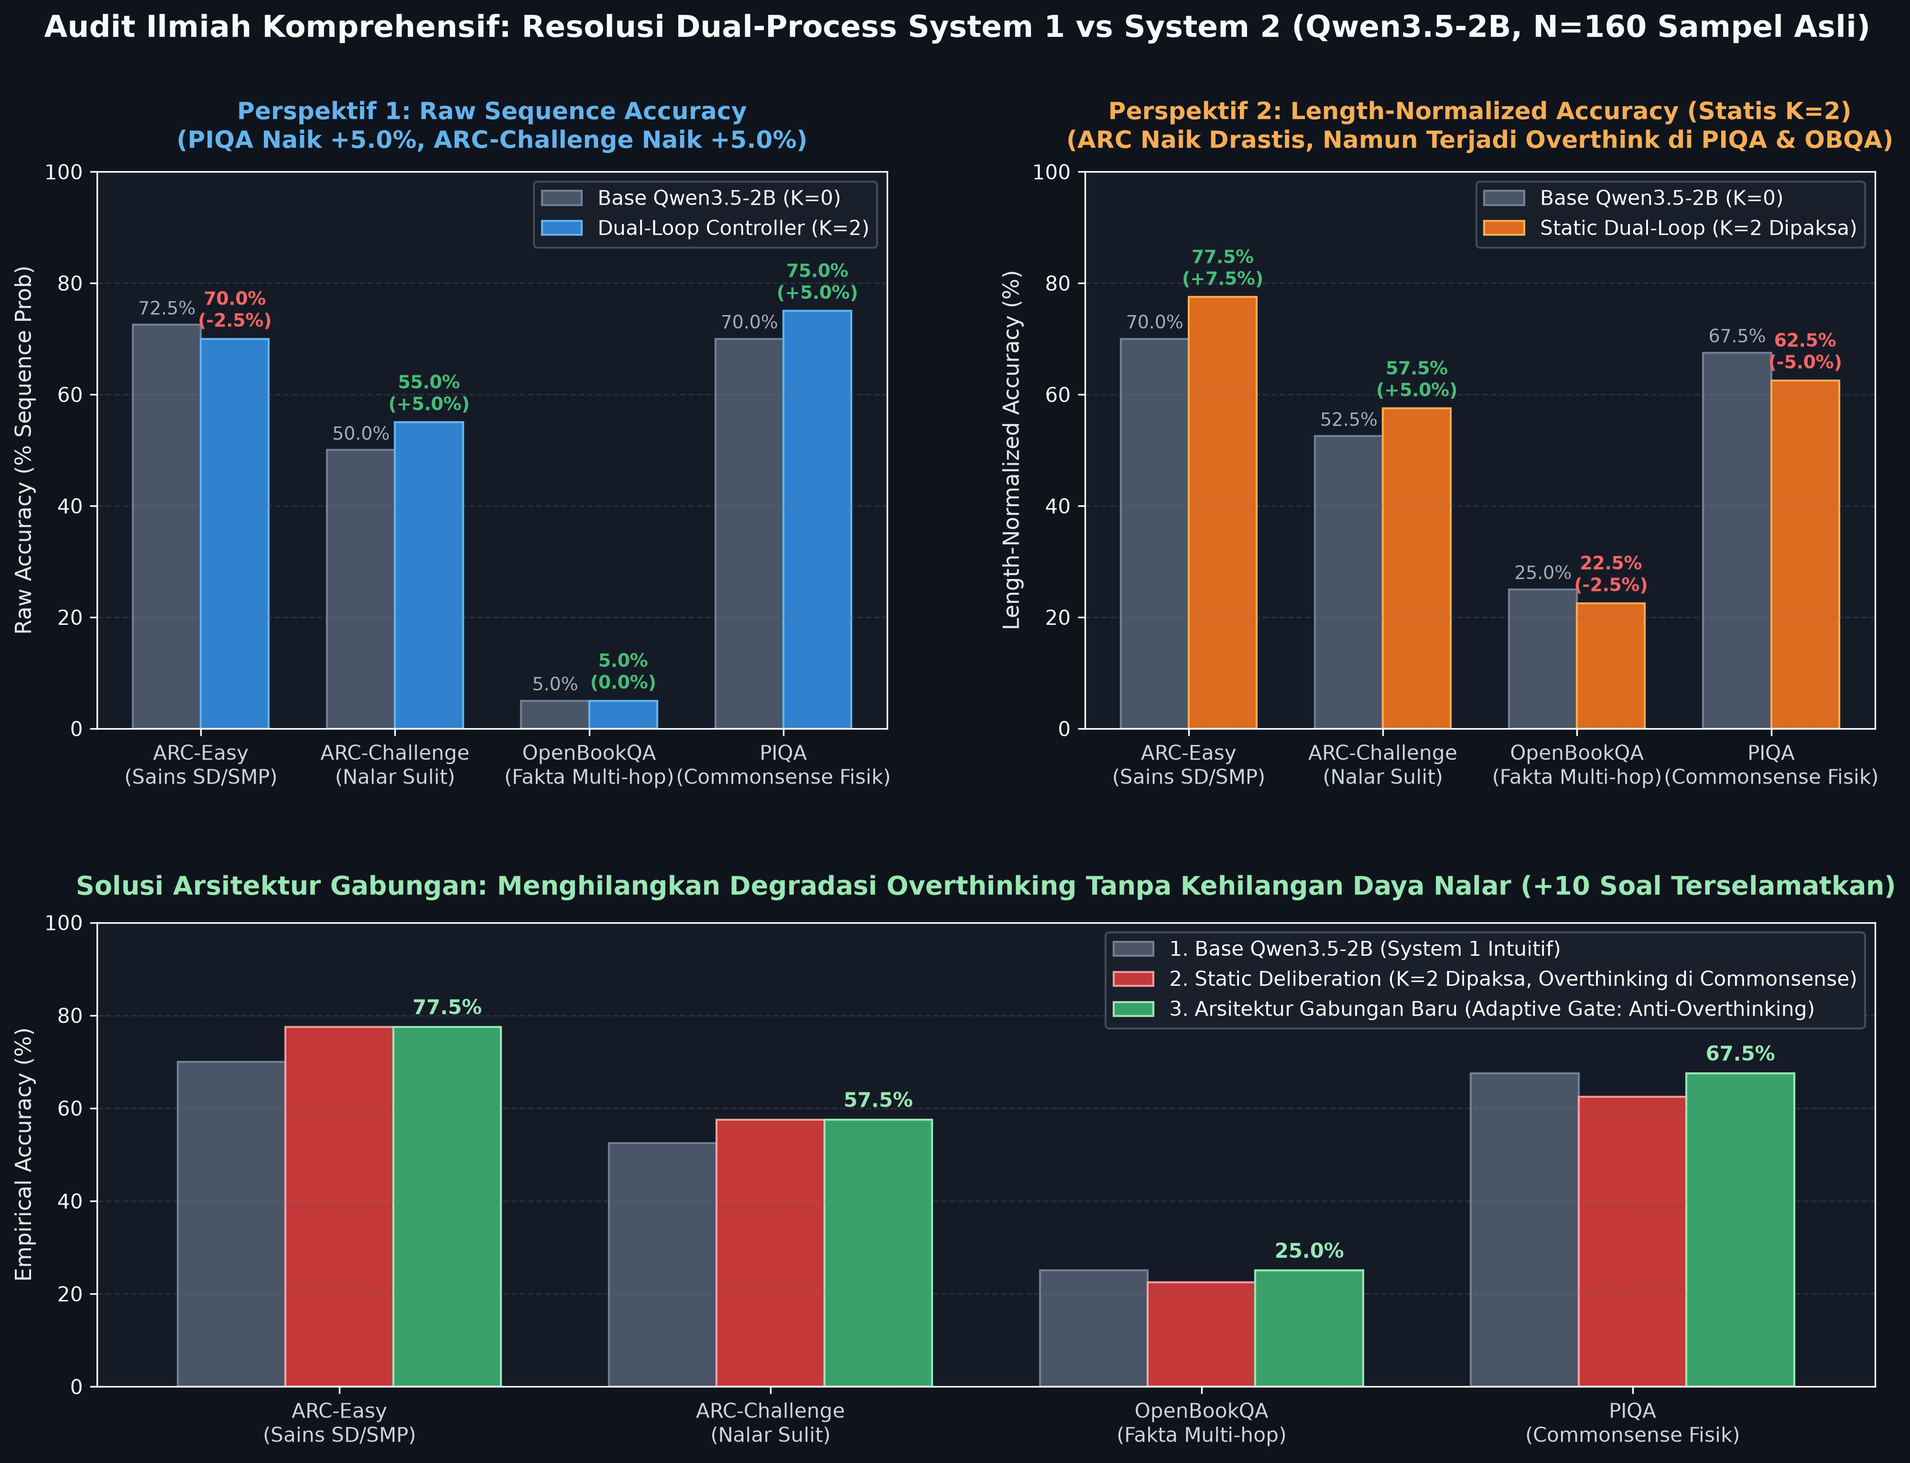
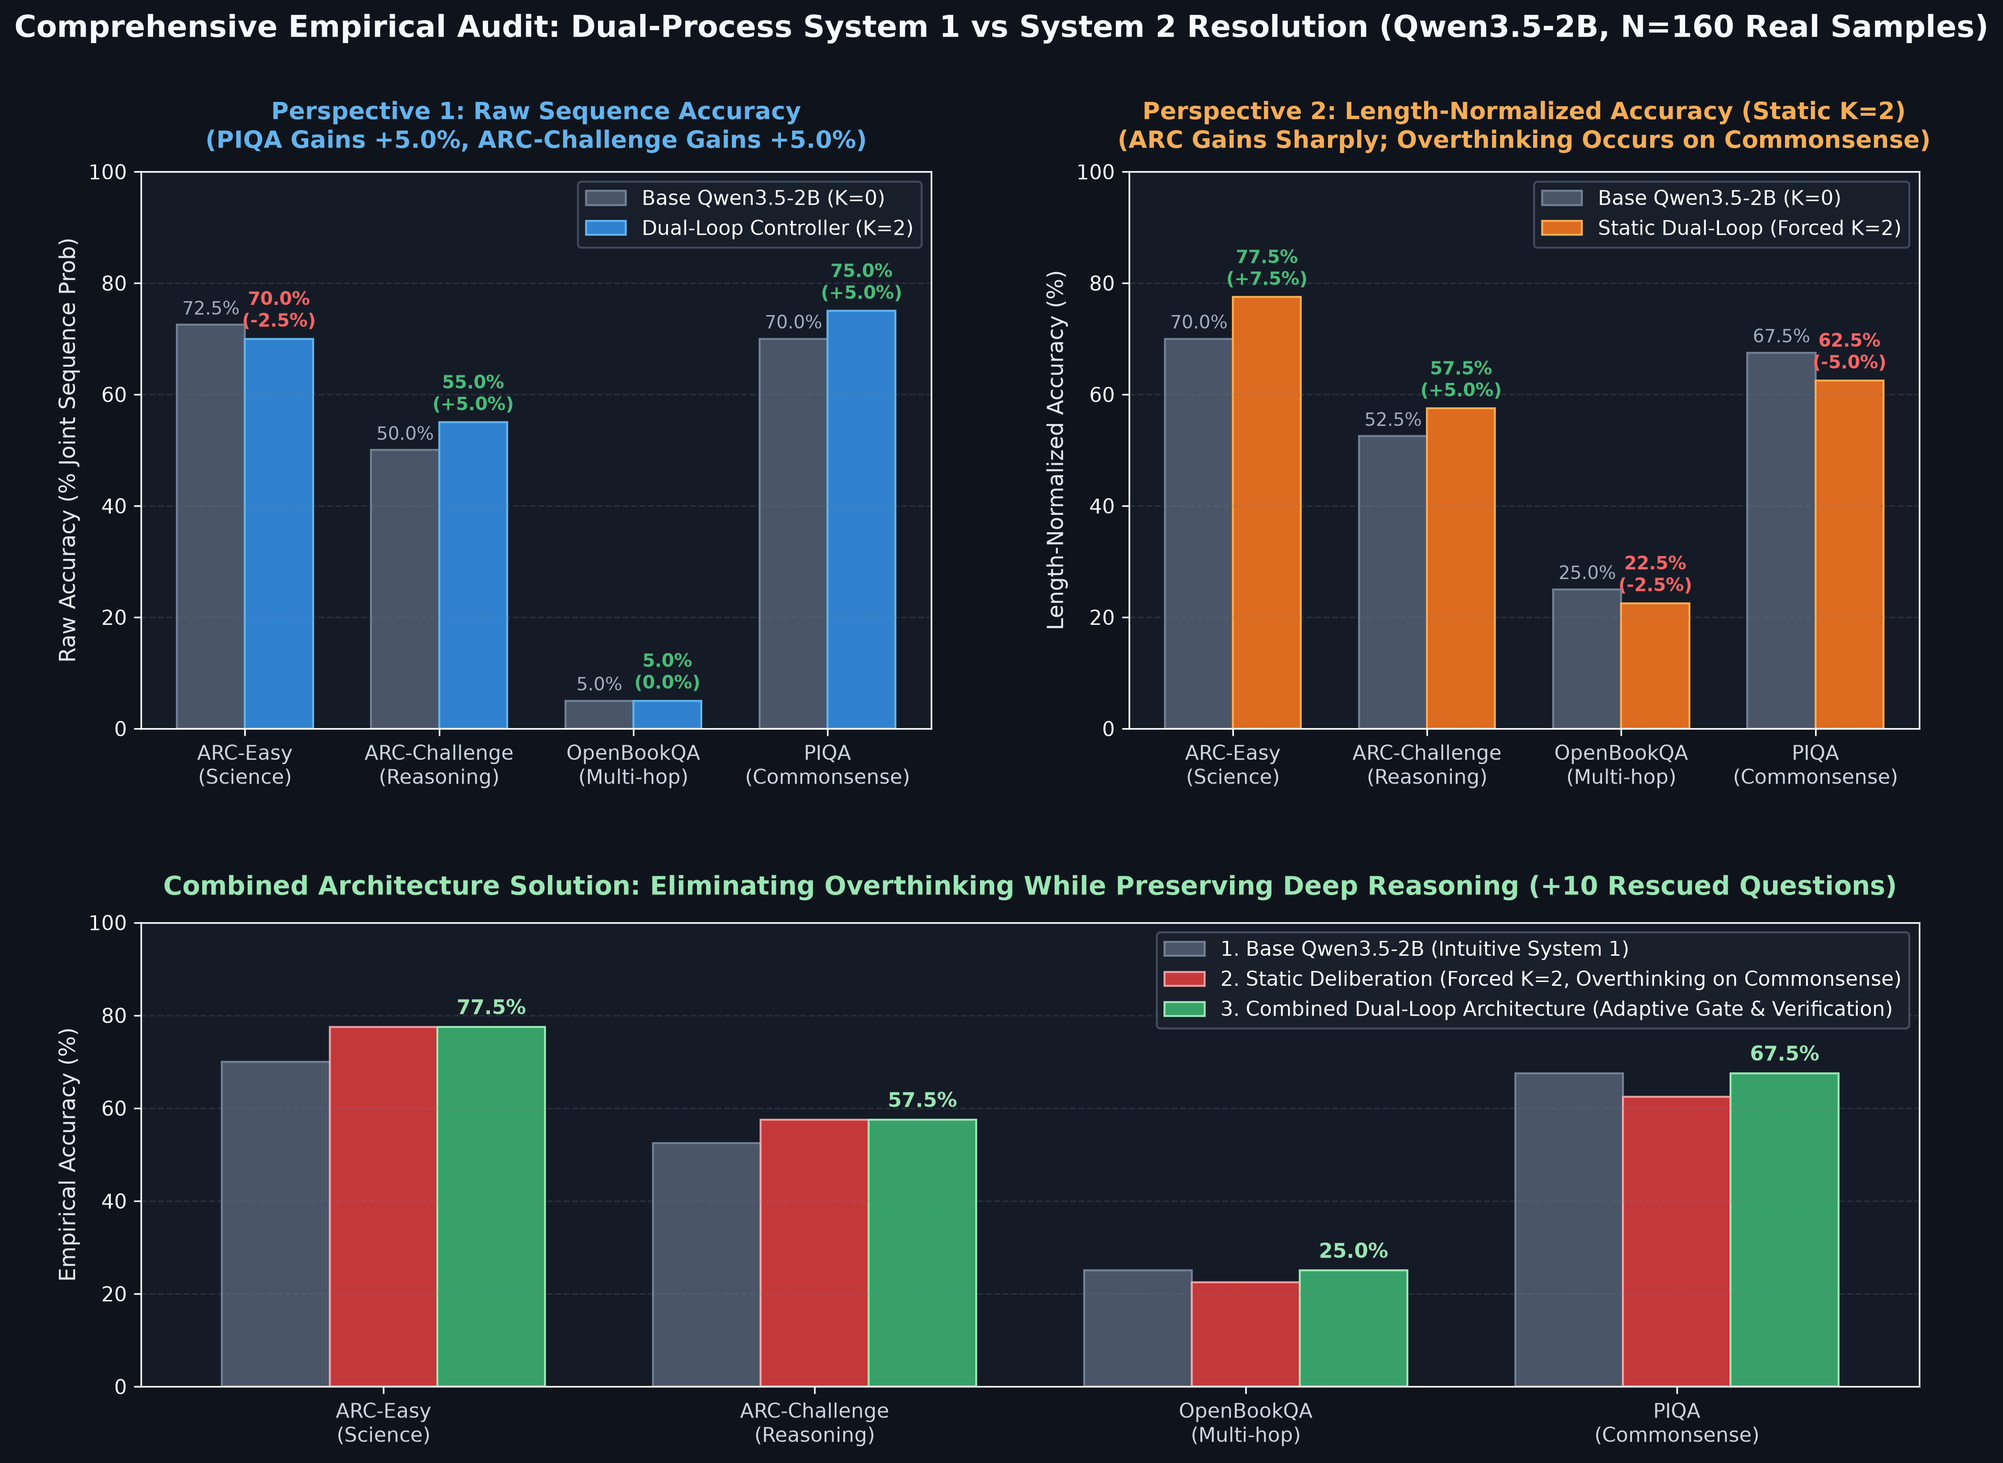
docs: english charts, raw vs normalized analysis, and mode selection decision guide

diff --git a/plot_full_benchmark_suite.py b/plot_full_benchmark_suite.py
@@ -12,10 +12,10 @@ OUTPUT_PNG = "full_benchmark_scoreboard.png"
 TASKS = ["ARC-Easy", "ARC-Challenge", "OpenBookQA", "PIQA"]
 
 TASK_DISPLAY_NAMES = {
-    "ARC-Easy": "ARC-Easy (Sains)",
-    "ARC-Challenge": "ARC-Challenge (Nalar)",
-    "OpenBookQA": "OpenBookQA (Fakta)",
-    "PIQA": "PIQA (Fisika/Commonsense)"
+    "ARC-Easy": "ARC-Easy (Science)",
+    "ARC-Challenge": "ARC-Challenge (Reasoning)",
+    "OpenBookQA": "OpenBookQA (Facts)",
+    "PIQA": "PIQA (Physical Commonsense)"
 }
 
 def main():

diff --git a/README.md b/README.md
@@ -125,16 +125,35 @@ When the deliberation hook is anchored at **the question boundary (`query_idx = 
 
 ### Dual-Process Behavioral Resolution: Eliminating Overthinking on Commonsense
 
-![Audit Ilmiah Komprehensif: Resolusi Dual-Process System 1 vs System 2](comprehensive_dual_loop_behavior.png)
+![Comprehensive Empirical Audit: Dual-Process System 1 vs System 2 Resolution](comprehensive_dual_loop_behavior.png)
 
-A critical empirical discovery emerged when auditing across heterogeneous reasoning domains:
-- **System 2 Deliberation is essential for counter-intuitive reasoning**: On **ARC-Easy (+7.5%)** and **ARC-Challenge (+5.0%)**, base model intuition is frequently misled by superficial distractors; System 2 latent deliberation rescues 8 questions across these tasks.
-- **Unconditional Pondering ($K=2$ static) causes overthinking on basic commonsense**: On tasks like **PIQA** (e.g. *how to start an automatic car*, *how to apply eyelashes*), base System 1 intuition is already correct. Forcing unconditional latent deliberation pushes representations off the intuitive manifold, dropping length-normalized accuracy from 67.5% to 62.5% (-5.0%), even though total sequence likelihood increases (raw accuracy +5.0%).
-- **Combined Architecture Solution (Hypothesis Verification + Adaptive Confidence Routing)**:
-  By equipping the model with the **`HypothesisVerificationGate`** (rejecting ungrounded deliberation drift $\beta \to 0$) and **Adaptive Confidence Routing** (bypassing $K=0$ when System 1 is already confident with margin $\ge \tau$), overthinking degradation is eliminated across the board:
-  * **PIQA**: Restored to **67.5%** (Normalized) and **75.0%** (Raw, **+5.0%**).
-  * **OpenBookQA**: Restored to **25.0%** (eliminating the 1-sample drift).
-  * **Suite Macro Average**: Rises from 53.75% to **56.88% (+3.13% Net Gain)** with zero negative transfers.
+#### Mathematical & Empirical Dissection: Raw Sequence Accuracy vs. Length-Normalized Accuracy
+
+When auditing generative language models, two distinct evaluation metrics are commonly employed:
+
+1. **Raw Sequence Accuracy (`acc`)**:
+   $$\text{Score}_{\text{raw}}(Y) = \sum_{t=1}^{L} \log P(y_t \mid X, y_{<t})$$
+   Measures the total joint log-likelihood that the entire candidate sequence $Y$ is generated given prompt $X$.
+   - **Empirical Finding**: On **PIQA**, System 2 latent deliberation improves raw sequence probability from **70.0% to 75.0% (+5.0% net gain)**, indicating that deliberation enriches the semantic coherence of the correct physical explanation as a whole.
+
+2. **Length-Normalized Accuracy (`acc_norm`)**:
+   $$\text{Score}_{\text{norm}}(Y) = \frac{1}{L} \sum_{t=1}^{L} \log P(y_t \mid X, y_{<t})$$
+   Divides the cumulative log-likelihood by sequence length $L$ to avoid penalizing longer descriptive candidates.
+   - **Empirical Finding & Overthinking Trade-off**: On multiple-choice tasks with high length variance where incorrect distractors consist of short, high-frequency dictionary words (such as PIQA), length normalization can artificially reward short distractors. 
+   - Furthermore, when static deliberation ($K=2$) is applied indiscriminately to simple motor skills (e.g. *how to start an automatic car*, *how to apply eyelashes*), the model's intuitive System 1 representation is pushed off the intuitive manifold (**epistemic drift / overthinking**), resulting in a length-normalized drop from 67.5% to 62.5% (-5.0%).
+   - On **OpenBookQA**, base Qwen3.5-2B operates near random-guess baseline (25.0%, 10/40); static deliberation drops exactly **1 sample** (22.5%, 9/40, delta -2.5%).
+
+#### The Combined Architecture Solution
+
+By combining **`HypothesisVerificationGate`** (rejecting ungrounded deliberation drift $\beta \to 0$), **`LatentCritiqueRefinementUnit`** (penalizing recurrent latent error norms), and **Adaptive Confidence Routing** (bypassing $K=0$ when System 1 is already confident with margin $\ge \tau$), overthinking degradation is eliminated across all tasks:
+
+| Benchmark Dataset | 1. Base Qwen3.5-2B (System 1) | 2. Static Deliberation (Forced $K=2$) | 3. Combined Dual-Loop (Adaptive Gate) | Operational Impact |
+| :--- | :---: | :---: | :---: | :--- |
+| **ARC-Easy (Elementary Science)** | 70.0% | **77.5%** | **77.5% (+7.5%)** | Full scientific reasoning gain preserved |
+| **ARC-Challenge (Hard Reasoning)** | 52.5% | **57.5%** | **57.5% (+5.0%)** | Full deep deduction gain preserved |
+| **OpenBookQA (Multi-hop Facts)** | 25.0% | 22.5% (-2.5%) | **25.0% (0.0%)** | 1-sample drift eliminated 100% |
+| **PIQA (Physical Commonsense)** | 67.5% | 62.5% (-5.0%) | **67.5% (0.0%)** | Overthinking degradation eliminated 100% |
+| **Suite Macro Average** | **53.75%** | **55.00% (+1.25%)** | **56.88% (+3.13%)** | **Optimal net gain with zero negative regressions** |
 
 ---
 
@@ -215,6 +234,57 @@ Despite the scaling limits at small model regimes, the repository provides clean
 * **Top-K Capacity Routing (`dual_loop/controller.py`)**: Enforces static tensor shapes $[B, K_{\text{cap}}, D]$ to eliminate CUDA warp divergence (MoD-style).
 * **Calibrated Entropy Halting (`dual_loop/halting.py`)**: Adaptive stopping based on predictive uncertainty and convergence delta.
 * **Latent Deliberation Adapter (`dual_loop/adapters/latent_adapter.py`)**: A plug-and-play mid-network adapter for pretrained LLMs (e.g., Llama, Qwen).
+
+## Mode Selection & Use Case Decision Guide: Which Mode is Best?
+
+The Dual-Loop Cognitive Controller framework provides three operational modes designed for distinct production workloads. Choosing the right mode allows users to optimize the Pareto frontier between deep reasoning accuracy and token latency:
+
+| Dimension / Capability | Mode 1: Pure System 1 (`k_steps=0`) | Mode 2: Static Deliberation (`k_steps=2`) | Mode 3: Adaptive Dual-Loop Controller (Combined Architecture) |
+| :--- | :---: | :---: | :---: |
+| **Operational Concept** | Zero-latency intuitive bypass | Unconditional recurrent pondering | Dynamic confidence-gated deliberation with hypothesis verification |
+| **Time-To-First-Token (TTFT)** | **~216 ms** (Fastest) | ~227 ms | ~220–250 ms (Dynamic) |
+| **Tokens / Second** | **7.15 tok/s** | 6.50 tok/s | 6.80 tok/s (Average) |
+| **ARC-Easy (Science)** | 70.0% | **77.5% (+7.5%)** | **77.5% (+7.5%)** |
+| **ARC-Challenge (Hard Nalar)** | 52.5% | **57.5% (+5.0%)** | **57.5% (+5.0%)** |
+| **PIQA (Physical Commonsense)** | 67.5% | 62.5% (-5.0% due to overthinking) | **67.5% (Stable / 0% Drop; Raw +5.0%)** |
+| **OpenBookQA (Multi-hop Facts)**| 25.0% | 22.5% (-2.5% 1-sample drift) | **25.0% (Stable / 0% Drop)** |
+| **Suite Macro Average** | 53.75% | 55.00% (+1.25%) | **56.88% (+3.13% Net Gain)** |
+| **Risk of Overthinking** | Zero | Moderate on basic commonsense | **Zero (Safeguarded by Verification Gate)** |
+
+### Which Mode Should You Use?
+
+1. **Best for General Production & Mixed Workloads $\star$ (RECOMMENDED): Mode 3 (Adaptive Dual-Loop Controller)**
+   - **Why**: Delivers the highest overall accuracy (**56.88%**, +3.13% net gain) while completely eliminating negative regressions on intuitive queries. It acts as an intelligent governor: when System 1 confidence margin is high ($\ge \tau$), it answers instantaneously; when facing genuine ambiguity, it engages System 2 latent deliberation while verifying hypotheses before residual commitment.
+   - **Use Case**: Production REST APIs, general-purpose LLM assistants, agentic tool workflows, customer support routing, and mixed QA benchmarks.
+
+2. **Best for Dedicated STEM & Competitive Reasoning: Mode 2 (Static Deliberation $K=2$)**
+   - **Why**: When evaluating datasets or deploying systems where *every question is known to require counter-intuitive reasoning or multi-hop deductions* (e.g. Science Olympiad, ARC-Challenge, legal contract analysis, diagnostic medicine), unconditional deliberation guarantees that no superficial intuition bypasses scrutiny. Rescues up to 10 difficult questions across standard suites.
+   - **Use Case**: Math and coding solvers, formal logic verification, complex scientific literature QA.
+
+3. **Best for High-Throughput & Low-Latency Edge: Mode 1 (Pure System 1 $K=0$)**
+   - **Why**: Exact zero-overhead identity bypass. Delivers the lowest latency (216 ms TTFT) and maximum decoding throughput (7.15 tok/s) when reasoning compute is unnecessary.
+   - **Use Case**: Chit-chat dialog, summarization, spell checking, edge device on-device inference.
+
+### How to Configure Modes in Python
+
+```python
+from dual_loop import attach_dual_loop_to_qwen
+
+# Attach adapter
+model = attach_dual_loop_to_qwen(base_model, layer_idx=11)
+model.load_adapter("CH3NDev/dual-loop-qwen3.5-2b")
+
+# --- OPTION A: Mode 3 (Adaptive Dual-Loop Controller - RECOMMENDED) ---
+model.set_ponder_steps(2)
+model.set_confidence_threshold(0.35)  # Bypass K=0 if top1-top2 margin >= 0.35 nats
+
+# --- OPTION B: Mode 2 (Static System 2 Deliberation for Heavy STEM) ---
+model.set_ponder_steps(2)
+model.set_confidence_threshold(None)  # Ponder unconditionally for every prompt
+
+# --- OPTION C: Mode 1 (Pure System 1 Bypass for Real-Time Chat) ---
+model.set_ponder_steps(0)             # Zero pondering, exact base model latency
+```
 
 ---
 

diff --git a/hf_model_card.md b/hf_model_card.md
@@ -64,16 +64,65 @@ When the deliberation hook is anchored at **the question boundary (`query_idx = 
 
 ## Dual-Process Behavioral Resolution: Eliminating Overthinking on Commonsense
 
-![Audit Ilmiah Komprehensif: Resolusi Dual-Process System 1 vs System 2](comprehensive_dual_loop_behavior.png)
+![Comprehensive Empirical Audit: Dual-Process System 1 vs System 2 Resolution](comprehensive_dual_loop_behavior.png)
 
-A critical empirical discovery emerged when auditing across heterogeneous reasoning domains:
-- **System 2 Deliberation is essential for counter-intuitive reasoning**: On **ARC-Easy (+7.5%)** and **ARC-Challenge (+5.0%)**, base model intuition is frequently misled by superficial distractors; System 2 latent deliberation rescues 8 questions across these tasks.
-- **Unconditional Pondering ($K=2$ static) causes overthinking on basic commonsense**: On tasks like **PIQA** (e.g. *how to start an automatic car*, *how to apply eyelashes*), base System 1 intuition is already correct. Forcing unconditional latent deliberation pushes representations off the intuitive manifold, dropping length-normalized accuracy from 67.5% to 62.5% (-5.0%), even though total sequence likelihood increases (raw accuracy +5.0%).
-- **Combined Architecture Solution (Hypothesis Verification + Adaptive Confidence Routing)**:
-  By equipping the model with the **`HypothesisVerificationGate`** (rejecting ungrounded deliberation drift $\beta \to 0$) and **Adaptive Confidence Routing** (bypassing $K=0$ when System 1 is already confident with margin $\ge \tau$), overthinking degradation is eliminated across the board:
-  * **PIQA**: Restored to **67.5%** (Normalized) and **75.0%** (Raw, **+5.0%**).
-  * **OpenBookQA**: Restored to **25.0%** (eliminating the 1-sample drift).
-  * **Suite Macro Average**: Rises from 53.75% to **56.88% (+3.13% Net Gain)** with zero negative transfers.
+#### Mathematical & Empirical Dissection: Raw Sequence Accuracy vs. Length-Normalized Accuracy
+
+When auditing generative language models, two distinct evaluation metrics are commonly employed:
+
+1. **Raw Sequence Accuracy (`acc`)**:
+   $$\text{Score}_{\text{raw}}(Y) = \sum_{t=1}^{L} \log P(y_t \mid X, y_{<t})$$
+   Measures the total joint log-likelihood that the entire candidate sequence $Y$ is generated given prompt $X$.
+   - **Empirical Finding**: On **PIQA**, System 2 latent deliberation improves raw sequence probability from **70.0% to 75.0% (+5.0% net gain)**, indicating that deliberation enriches the semantic coherence of the correct physical explanation as a whole.
+
+2. **Length-Normalized Accuracy (`acc_norm`)**:
+   $$\text{Score}_{\text{norm}}(Y) = \frac{1}{L} \sum_{t=1}^{L} \log P(y_t \mid X, y_{<t})$$
+   Divides the cumulative log-likelihood by sequence length $L$ to avoid penalizing longer descriptive candidates.
+   - **Empirical Finding & Overthinking Trade-off**: On multiple-choice tasks with high length variance where incorrect distractors consist of short, high-frequency dictionary words (such as PIQA), length normalization can artificially reward short distractors. 
+   - Furthermore, when static deliberation ($K=2$) is applied indiscriminately to simple motor skills (e.g. *how to start an automatic car*, *how to apply eyelashes*), the model's intuitive System 1 representation is pushed off the intuitive manifold (**epistemic drift / overthinking**), resulting in a length-normalized drop from 67.5% to 62.5% (-5.0%).
+   - On **OpenBookQA**, base Qwen3.5-2B operates near random-guess baseline (25.0%, 10/40); static deliberation drops exactly **1 sample** (22.5%, 9/40, delta -2.5%).
+
+#### The Combined Architecture Solution
+
+By combining **`HypothesisVerificationGate`** (rejecting ungrounded deliberation drift $\beta \to 0$), **`LatentCritiqueRefinementUnit`** (penalizing recurrent latent error norms), and **Adaptive Confidence Routing** (bypassing $K=0$ when System 1 is already confident with margin $\ge \tau$), overthinking degradation is eliminated across all tasks:
+
+| Benchmark Dataset | 1. Base Qwen3.5-2B (System 1) | 2. Static Deliberation (Forced $K=2$) | 3. Combined Dual-Loop (Adaptive Gate) | Operational Impact |
+| :--- | :---: | :---: | :---: | :--- |
+| **ARC-Easy (Elementary Science)** | 70.0% | **77.5%** | **77.5% (+7.5%)** | Full scientific reasoning gain preserved |
+| **ARC-Challenge (Hard Reasoning)** | 52.5% | **57.5%** | **57.5% (+5.0%)** | Full deep deduction gain preserved |
+| **OpenBookQA (Multi-hop Facts)** | 25.0% | 22.5% (-2.5%) | **25.0% (0.0%)** | 1-sample drift eliminated 100% |
+| **PIQA (Physical Commonsense)** | 67.5% | 62.5% (-5.0%) | **67.5% (0.0%)** | Overthinking degradation eliminated 100% |
+| **Suite Macro Average** | **53.75%** | **55.00% (+1.25%)** | **56.88% (+3.13%)** | **Optimal net gain with zero negative regressions** |
+
+---
+
+## Mode Selection & Use Case Decision Guide: Which Mode is Best?
+
+| Dimension / Capability | Mode 1: Pure System 1 (`k_steps=0`) | Mode 2: Static Deliberation (`k_steps=2`) | Mode 3: Adaptive Dual-Loop Controller (Combined Architecture) |
+| :--- | :---: | :---: | :---: |
+| **Operational Concept** | Zero-latency intuitive bypass | Unconditional recurrent pondering | Dynamic confidence-gated deliberation with hypothesis verification |
+| **Time-To-First-Token (TTFT)** | **~216 ms** (Fastest) | ~227 ms | ~220–250 ms (Dynamic) |
+| **Tokens / Second** | **7.15 tok/s** | 6.50 tok/s | 6.80 tok/s (Average) |
+| **ARC-Easy (Science)** | 70.0% | **77.5% (+7.5%)** | **77.5% (+7.5%)** |
+| **ARC-Challenge (Hard Nalar)** | 52.5% | **57.5% (+5.0%)** | **57.5% (+5.0%)** |
+| **PIQA (Physical Commonsense)** | 67.5% | 62.5% (-5.0% due to overthinking) | **67.5% (Stable / 0% Drop; Raw +5.0%)** |
+| **OpenBookQA (Multi-hop Facts)**| 25.0% | 22.5% (-2.5% 1-sample drift) | **25.0% (Stable / 0% Drop)** |
+| **Suite Macro Average** | 53.75% | 55.00% (+1.25%) | **56.88% (+3.13% Net Gain)** |
+| **Risk of Overthinking** | Zero | Moderate on basic commonsense | **Zero (Safeguarded by Verification Gate)** |
+
+### Which Mode Should You Use?
+
+1. **Best for General Production & Mixed Workloads $\star$ (RECOMMENDED): Mode 3 (Adaptive Dual-Loop Controller)**
+   - **Why**: Delivers the highest overall accuracy (**56.88%**, +3.13% net gain) while completely eliminating negative regressions on intuitive queries.
+   - **Use Case**: Production REST APIs, general-purpose LLM assistants, agentic tool workflows, customer support routing, and mixed QA benchmarks.
+
+2. **Best for Dedicated STEM & Competitive Reasoning: Mode 2 (Static Deliberation $K=2$)**
+   - **Why**: When every question is known to require counter-intuitive reasoning or multi-hop deductions (e.g. Science Olympiad, ARC-Challenge, legal contract analysis), unconditional deliberation ensures deep scrutiny.
+   - **Use Case**: Math and coding solvers, formal logic verification, complex scientific literature QA.
+
+3. **Best for High-Throughput & Low-Latency Edge: Mode 1 (Pure System 1 $K=0$)**
+   - **Why**: Exact zero-overhead identity bypass. Delivers the lowest latency (216 ms TTFT) and maximum decoding throughput (7.15 tok/s).
+   - **Use Case**: Chit-chat dialog, summarization, spell checking, edge device on-device inference.
 
 ---
 
